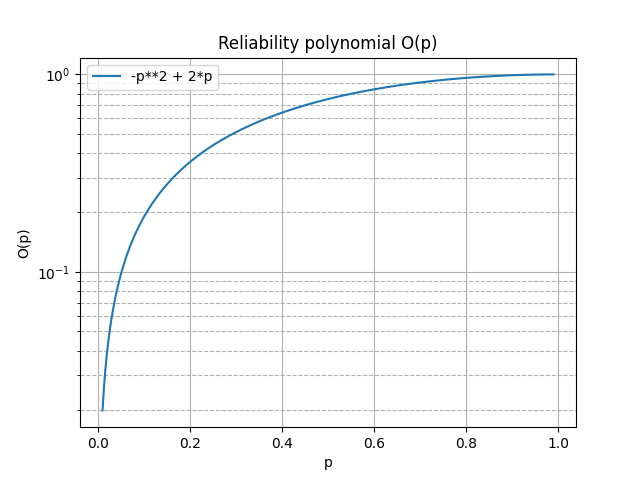
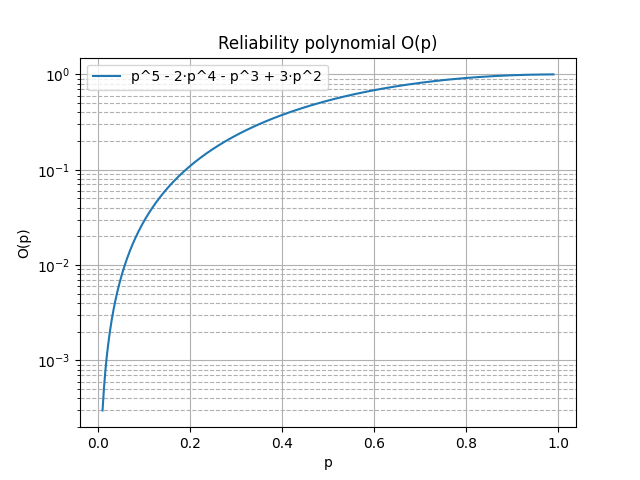
latest changes before flight

diff --git a/main.py b/main.py
@@ -93,16 +93,22 @@ def find_all_minimum_cuts(graph, source, target, capacity_key):
 G = nx.MultiDiGraph(directed=True)
 
 # Nodes 
-G.add_node(1, subset='source')
-G.add_node(2, subset='others')
+G.add_node(2, subset='source')
 G.add_node(3, subset='target')
-s_node = 1
-t_node = 3
+s_node = 2 # source node
+t_node = 3 # target node
+
+G.add_node(1, subset='others')
+G.add_node(4, subset='others')
+# G.add_node(5, subset='others')
 
 # Edges 
 # G.add_edges_from([(1, 2, 0, {'capacity': "e1"}), (1, 2, 1, {'capacity': "e2"}), (2, 3, 0, {'capacity': "e3"}), (2, 3, 1, {'capacity': "e4"})])
 # G.add_edges_from([(1, 2, 0, {'capacity': "e1"}), (2, 3, 0, {'capacity': "e2"}), (2, 3, 1, {'capacity': "e3"})])
-G.add_edges_from([(1, 2, 0, {'capacity': "e1"}), (2, 3, 0, {'capacity': "e2"})])
+# G.add_edges_from([(1, 2, 0, {'capacity': "e1"}), (2, 3, 0, {'capacity': "e2"})])
+# G.add_edges_from([(1, 2, 0, {'capacity': "e1"}), (2, 3, 0, {'capacity': "e5"}), (1, 4, 0, {'capacity': "e2"}), (4, 5, 0, {'capacity': "e3"}), (2, 5, 0, {'capacity': "e4"}), (5, 3, 0, {'capacity': "e6"})])
+# G.add_edges_from([(1, 2, 0, {'capacity': "a"}), (2, 3, 0, {'capacity': "b"}), (1, 3, 0, {'capacity': "c"}), (1, 4, 0, {'capacity': "d"}), (4, 3, 0, {'capacity': "f"})])
+G.add_edges_from([(2, 1, 0, {'capacity': "a"}), (1, 3, 0, {'capacity': "b"}), (2, 4, 0, {'capacity': "c"}), (4, 3, 0, {'capacity': "d"}), (1, 4, 0, {'capacity': "f"})])
 
 
 ### CALL TO CUSTOM FLOW COMPUTING FUNCTION
@@ -177,7 +183,7 @@ indices = list(range(m, n+1))
 for i in indices :
     polynomial = polynomial + coefs[i-m]*pow(x,i)*pow((1-x),(n-i))
     # print(i)
-string_expanded_polynomial = str(sympy.expand(polynomial)).replace('x', 'p')
+string_expanded_polynomial = ((str(sympy.expand(polynomial)).replace('x', 'p')).replace('**', '^')).replace('*', '·')
 
 p = numpy.linspace(0.01, 0.99, num=1000)
 O_p = OutagePolynomial.eval(p, m, n, coefs)
@@ -193,7 +199,7 @@ plt.figure(figsize=(8, 6))  # Adjust the figure size as per your preference
  
 # pos = nx.multipartite_layout(G, subset_key='subset', align='horizontal')  # Use multipartite_layout for automatic separation of parallel edges
 # offset = 0.05  # Adjust this value to control the separation of parallel edges
-pos = nx.random_layout(G)
+pos = nx.planar_layout(G)
 
 # # Get the edge labels
 # edge_labels = {(u, v, key): G[u][v][key]['capacity'] for u, v, key in G.edges(keys=True)}
